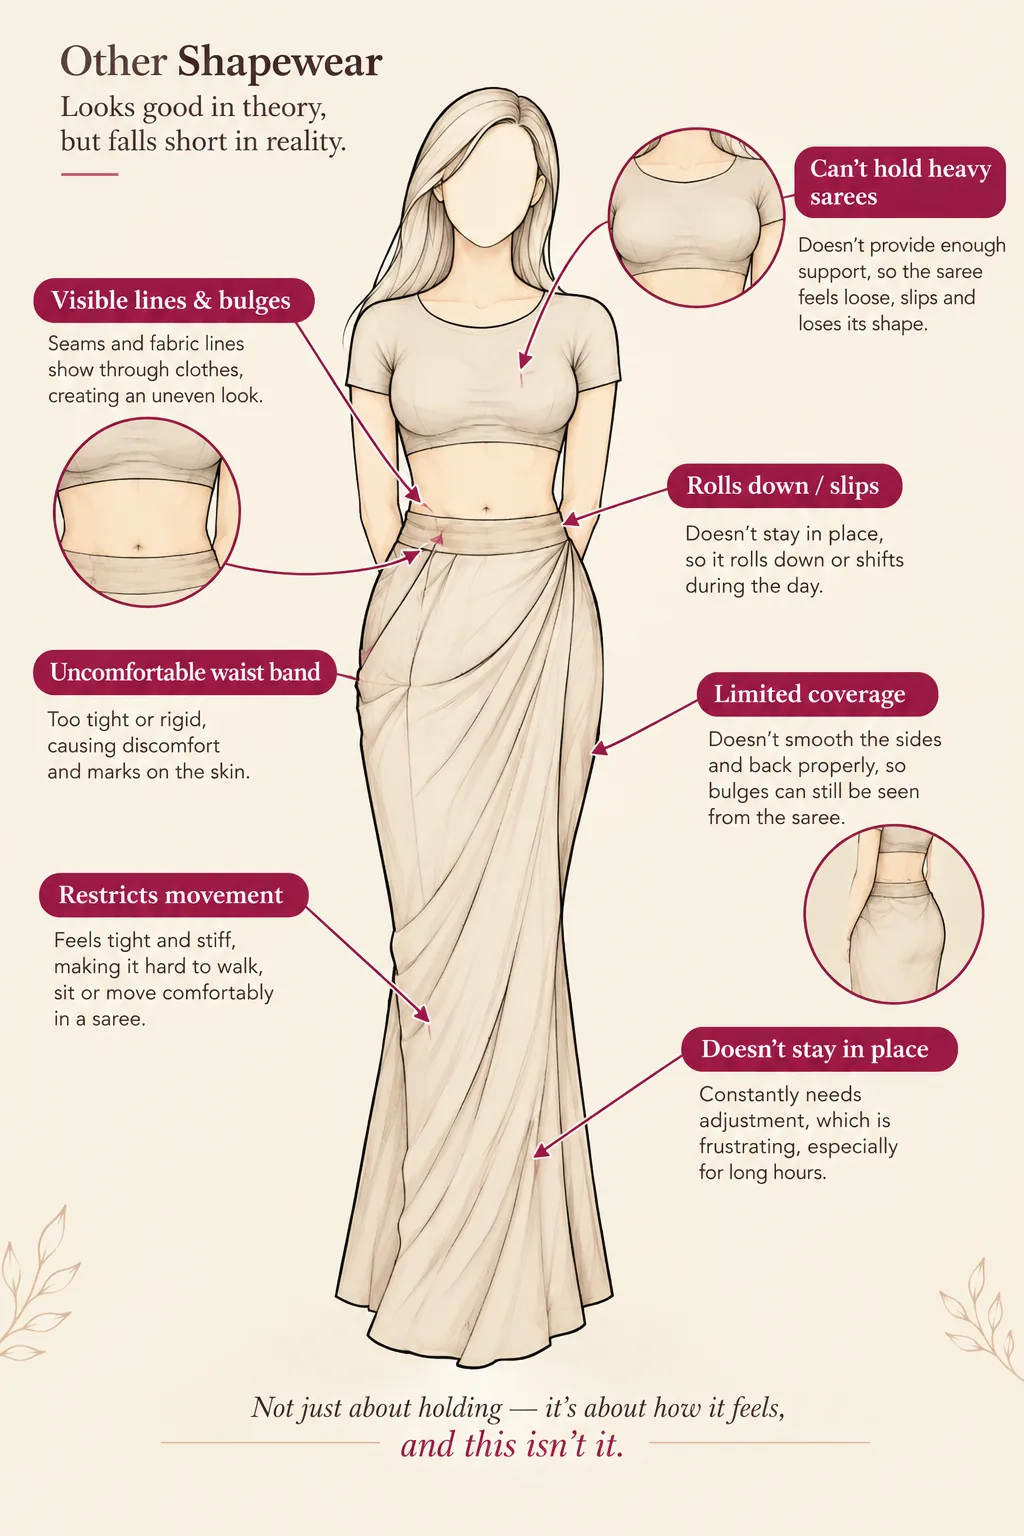
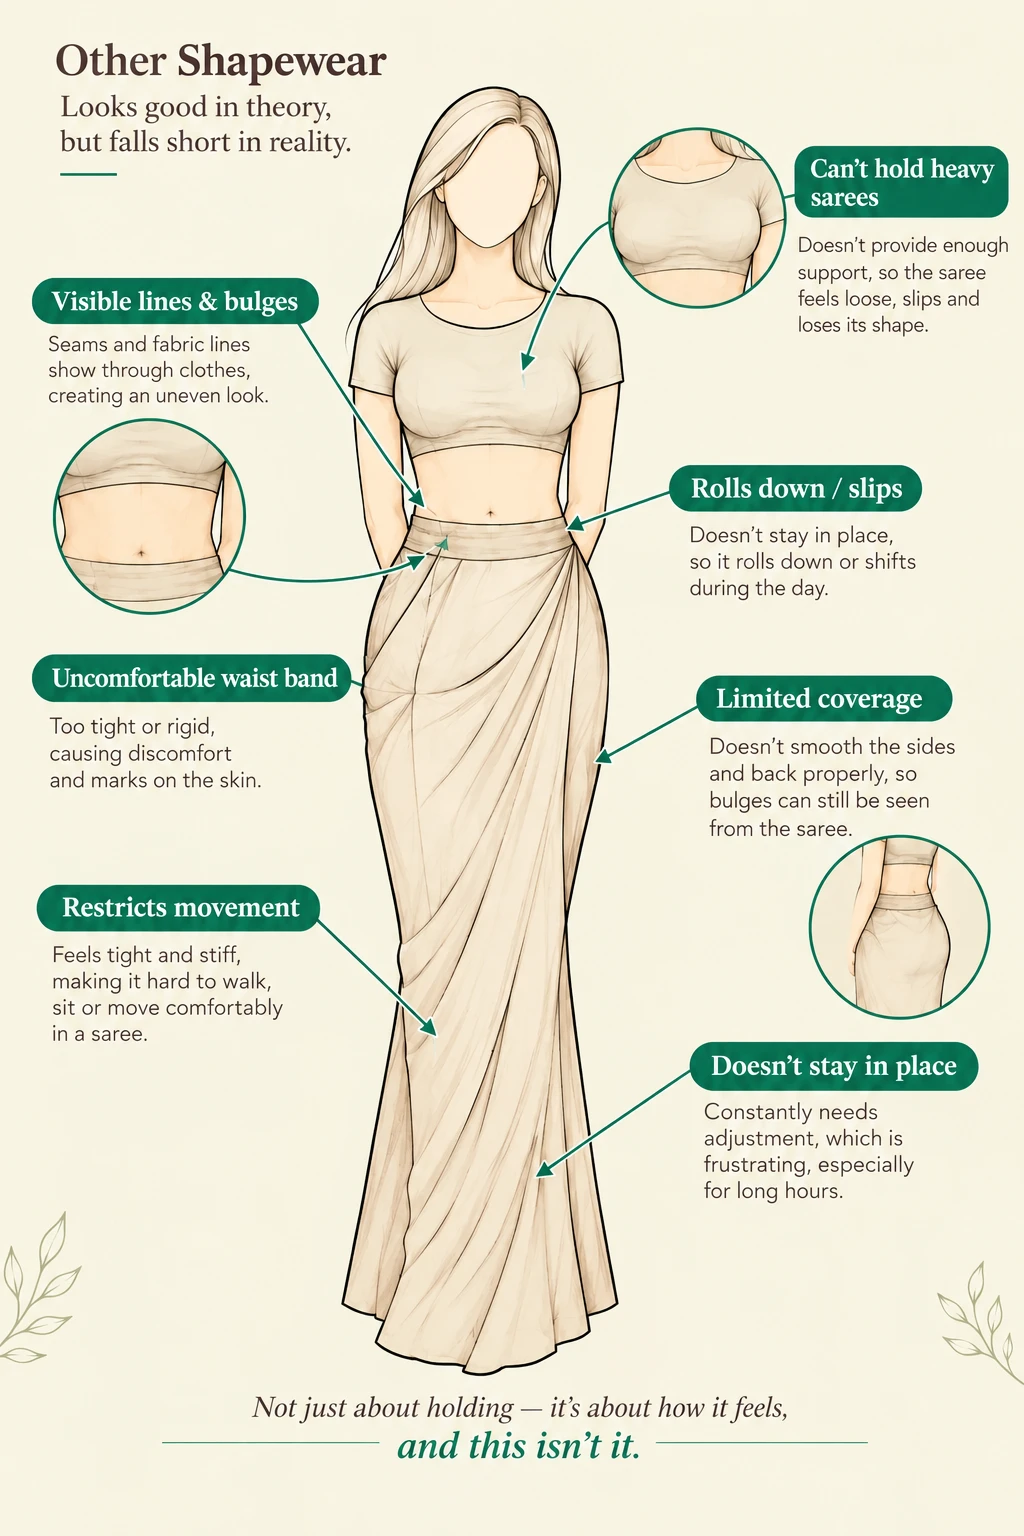
green color

diff --git a/src/components/fx.jsx b/src/components/fx.jsx
@@ -510,7 +510,7 @@ export function BeforeAfter({ left, right, leftLabel, rightLabel, className = ''
       <span className="pointer-events-none absolute left-4 top-4 rounded-full bg-sraz px-3 py-1 text-xs font-medium text-cream shadow">
         {leftLabel}
       </span>
-      <span className="pointer-events-none absolute right-4 top-4 rounded-full bg-[#8a3346] px-3 py-1 text-xs font-medium text-cream shadow">
+      <span className="pointer-events-none absolute right-4 top-4 rounded-full bg-sraz px-3 py-1 text-xs font-medium text-cream shadow">
         {rightLabel}
       </span>
       <div className="pointer-events-none absolute inset-y-0 w-[3px] -translate-x-1/2 bg-vi" style={{ left: `${pos}%` }} />

diff --git a/src/pages/Construction.jsx b/src/pages/Construction.jsx
@@ -15,7 +15,7 @@ import { PatternBg, SKIRT } from '../components/art'
 import { BeforeAfter, EASE, Img, Reveal, TextReveal } from '../components/fx'
 import graceImg from '../assets/grace-in-every-step.webp'
 import oursImg from '../assets/srazvi-shapewear.webp'
-import otherImg from '../assets/other-shapewear.webp'
+import otherImg from '../assets/other-shapewear-green.webp'
 
 /* ------------------------------------------------------------ drag comparison */
 
